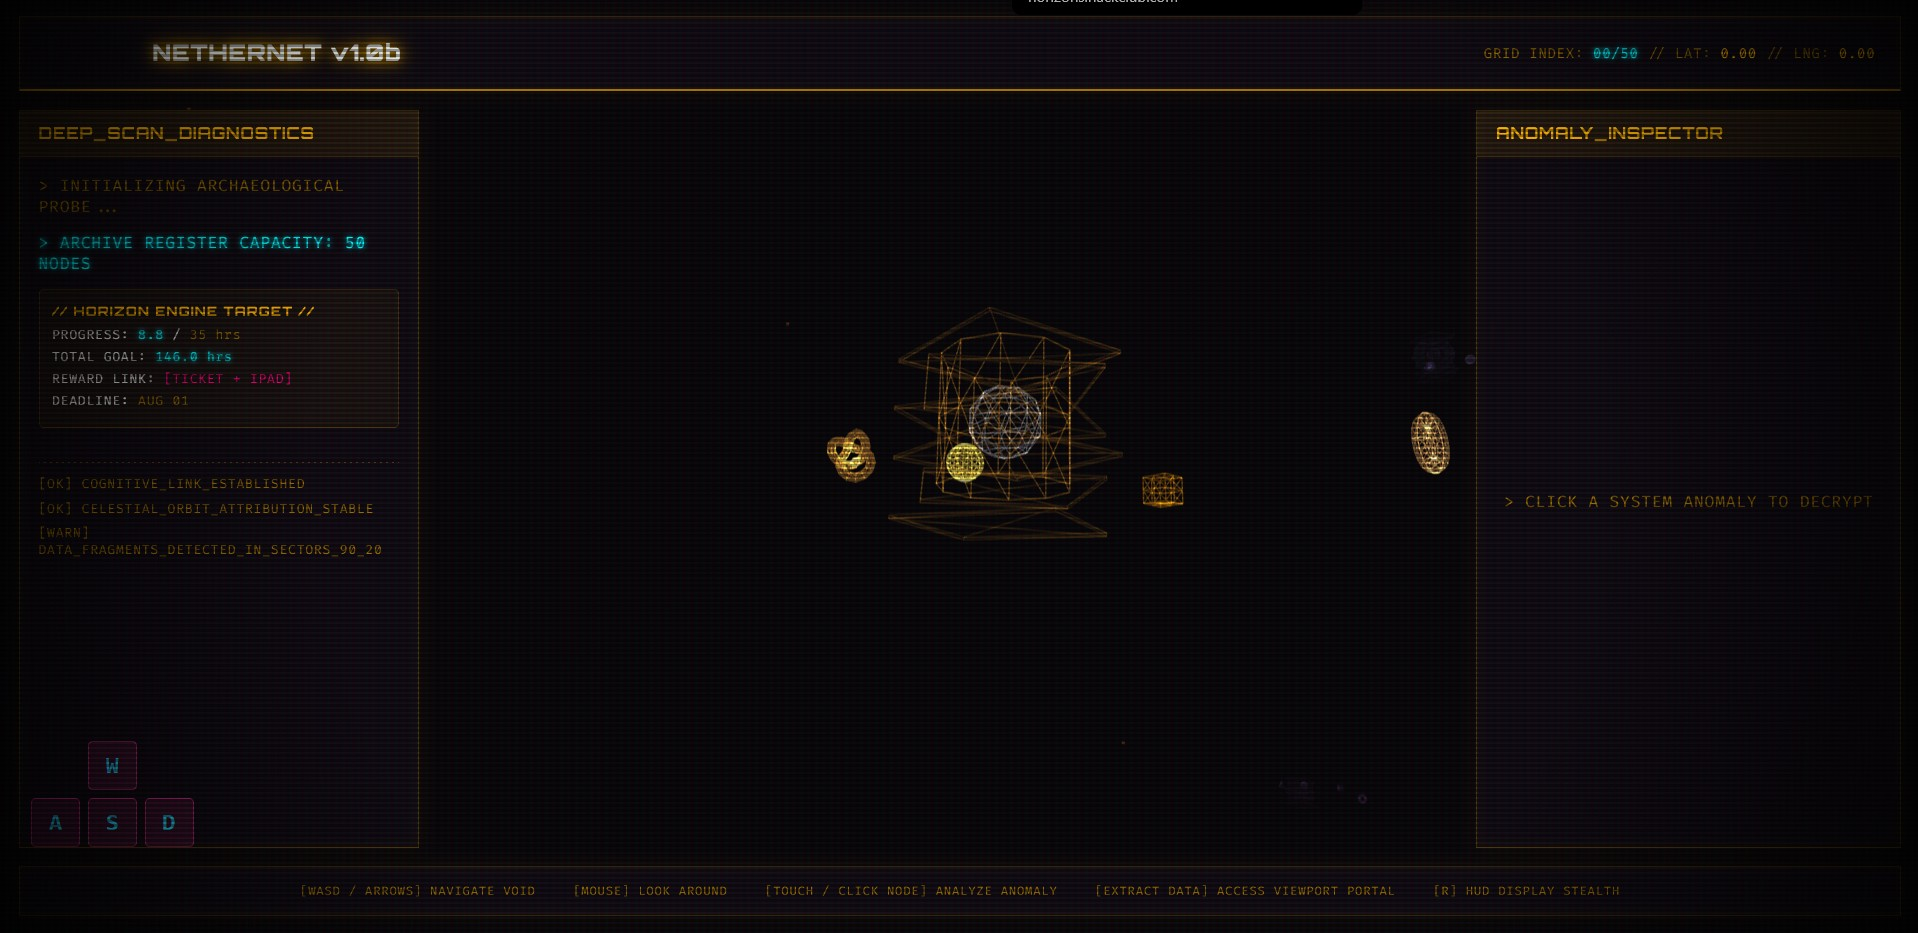
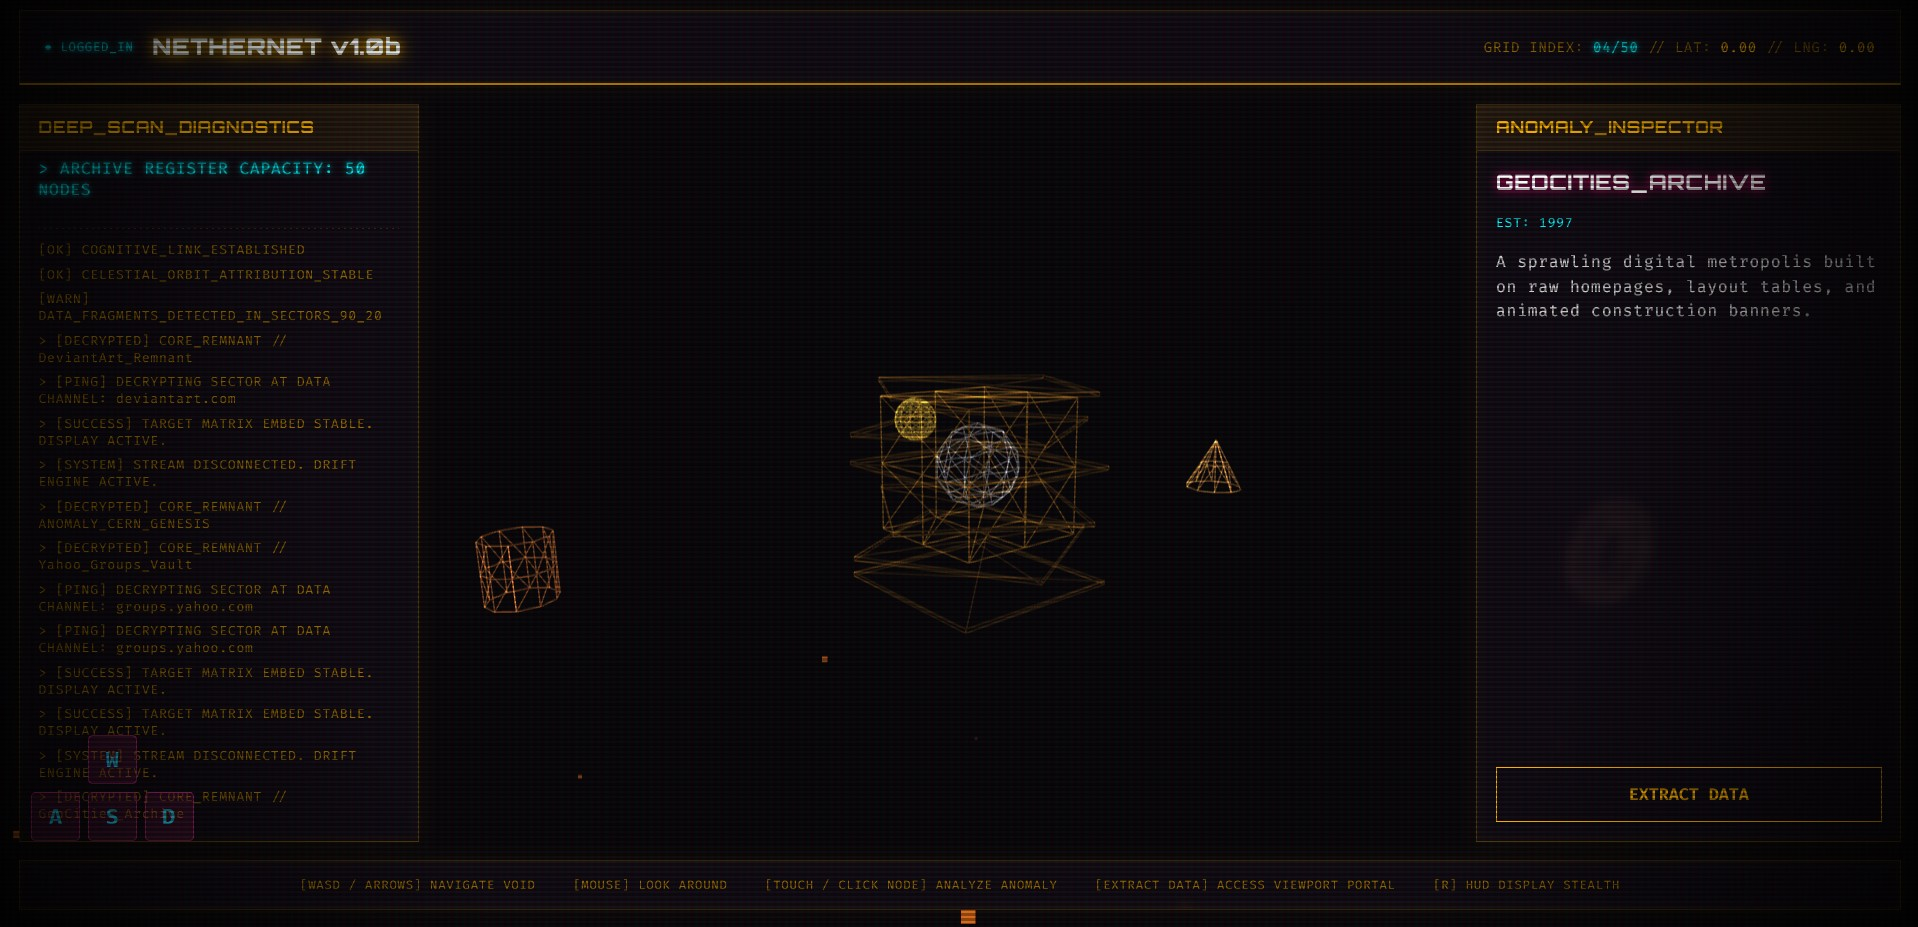
Assets edited

diff --git a/index.html b/index.html
@@ -50,14 +50,6 @@
             <div class="panel-content">
                 <p class="text-mute">> INITIALIZING ARCHAEOLOGICAL PROBE...</p>
                 <p class="text-success">> ARCHIVE REGISTER CAPACITY: 50 NODES</p>
-                
-                <div class="horizon-tracker-subbox">
-                    <div class="tracker-title">// HORIZON ENGINE TARGET //</div>
-                    <div class="tracker-row">PROGRESS: <span id="horizon-progress" class="text-success">8.8</span> / <span class="text-mute">35 hrs</span></div>
-                    <div class="tracker-row">TOTAL GOAL: <span class="text-success">146.0 hrs</span></div>
-                    <div class="tracker-row">REWARD LINK: <span style="color: var(--neon-magenta);">[TICKET + IPAD]</span></div>
-                    <div class="tracker-row">DEADLINE: <span class="text-mute">AUG 01</span></div>
-                </div>
 
                 <div class="data-stream" id="data-stream">
                     <div>[OK] COGNITIVE_LINK_ESTABLISHED</div>